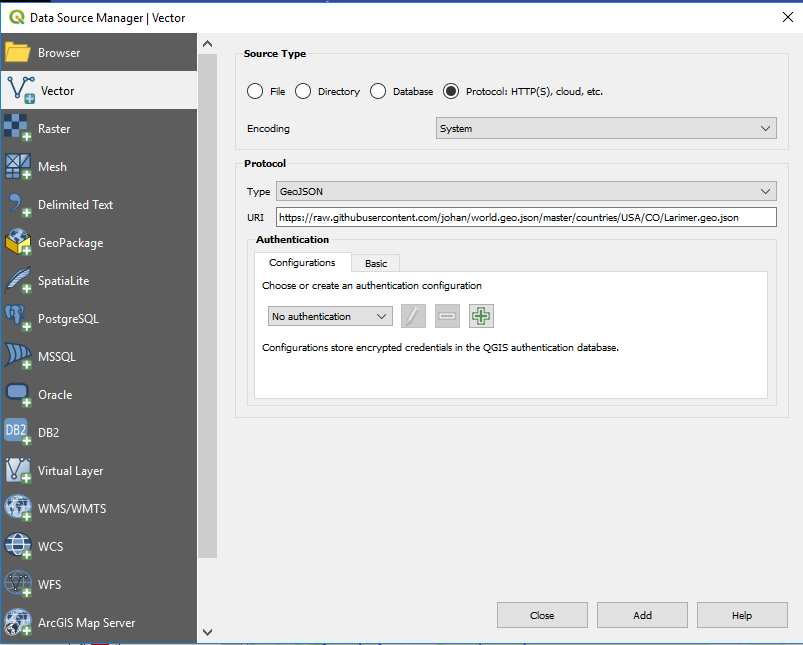
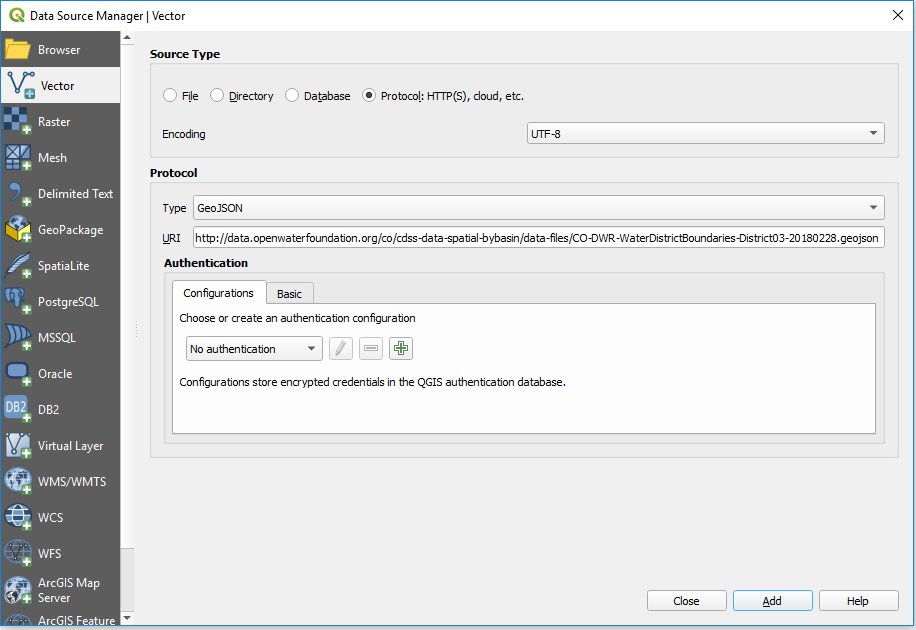
Fixed bug with example of adding GeoJSON as URL

Changed region(s): [[0.0, 0.0, 1.0, 1.0], [0.3113, 0.0603, 0.3736, 0.0905]]

diff --git a/mkdocs-project/docs/map-layers/vector-geojson.md b/mkdocs-project/docs/map-layers/vector-geojson.md
@@ -67,7 +67,7 @@ at which time layer properties can be edited if desired.
 2. Select the ***Protocol*** to be ***GeoJSON***.
 3. Specify the URI to a GeoJSON file:
 	* web service URI that returns raw GeoJSON format
-	* static website URI (for example: `https://raw.githubusercontent.com/johan/world.geo.json/master/countries/USA/CO/Larimer.geo.json`)
+	* static website URI (for example: `http://data.openwaterfoundation.org/co/cdss-data-spatial-bybasin/data-files/CO-DWR-WaterDistrictBoundaries-District03-20180228.geojson`)
 
 ![Add GeoJSON](vector-geojson-images/add-geojson-uri.png)
 
